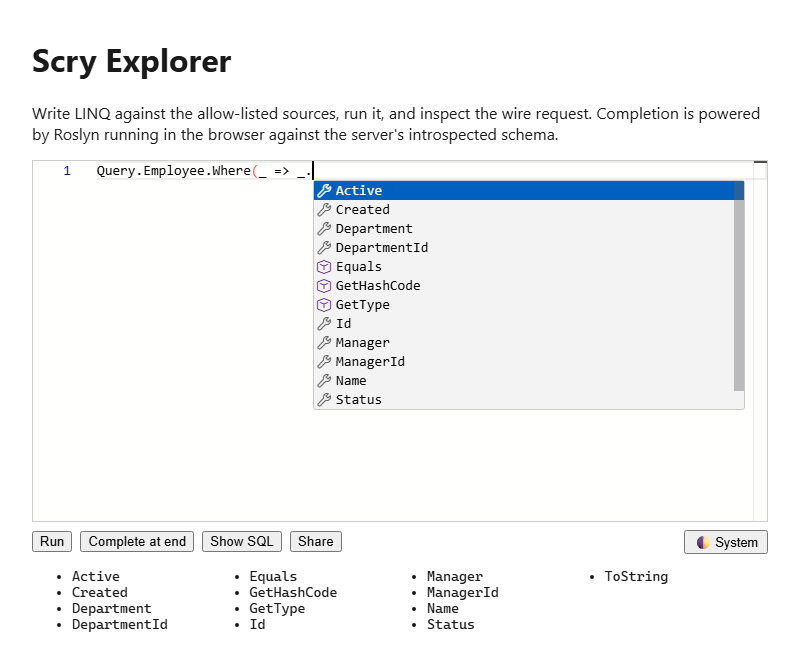
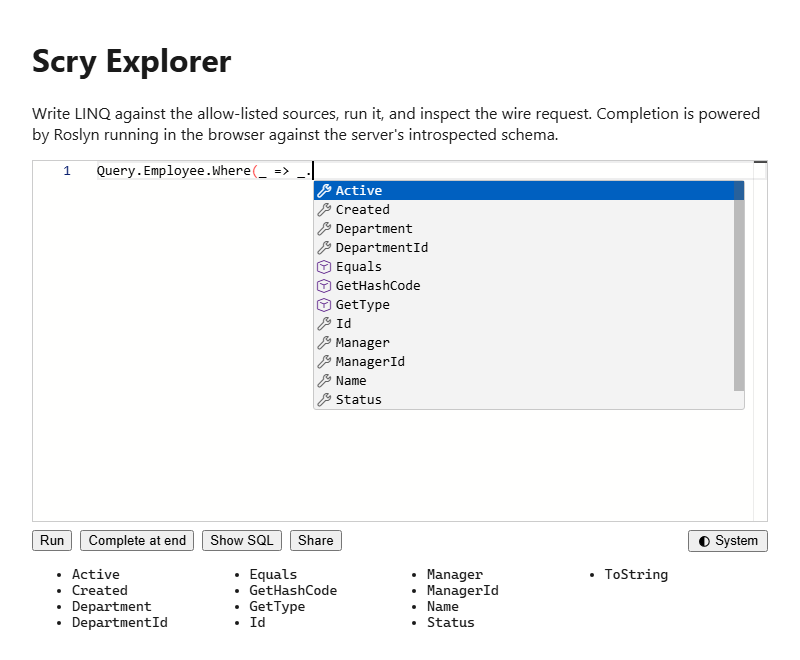
.

diff --git a/src/Scry.Explorer.Ui/wwwroot/css/app.css b/src/Scry.Explorer.Ui/wwwroot/css/app.css
@@ -49,6 +49,15 @@ a {
 
 .theme-toggle {
     margin-left: auto;
+    display: inline-flex;
+    align-items: center;
+    gap: 0.35em;
+}
+
+/* Sized in em so the icon tracks the button's font-size rather than a pixel box beside it. */
+.theme-icon {
+    width: 1em;
+    height: 1em;
 }
 
 /* A small, unobtrusive secondary button (copy, theme). Inherits color-scheme for light/dark. */

diff --git a/samples/Sample.Tests/UiScreenshotTests.cs b/samples/Sample.Tests/UiScreenshotTests.cs
@@ -6,10 +6,11 @@
 // file.
 //
 // Every page is opened at a fixed viewport: layout is what the screenshot is of, and a viewport that
-// followed the machine would make every capture a different one. Subpixel text antialiasing is off
-// (see BrowserFixture) because it did not reproduce between browser sessions even on one machine; what
-// remains is the platform's own font stack, so a first run on a new OS or CI image is still expected to
-// need reseeding.
+// followed the machine would make every capture a different one. Subpixel text antialiasing is off (see
+// BrowserFixture) because it did not reproduce between browser sessions even on one machine, and the
+// pngs are compared with a tolerance rather than by byte (see PngComparer) because what survives that
+// is a pixel or two at the end of a rule, rendered a shade lighter on one machine than on another. A
+// baseline seeded here therefore holds on CI, which is what lets these run there at all.
 [TestFixture]
 [Category("Browser")]
 public class UiScreenshotTests :

diff --git a/src/Scry.Explorer.Ui/App.razor.cs b/src/Scry.Explorer.Ui/App.razor.cs
@@ -420,7 +420,8 @@ public partial class App
         await TryRegister();
     }
 
-    string ThemeLabel => themeMode switch { "light" => "☀ Light", "dark" => "🌙 Dark", _ => "🌓 System" };
+    // Text only — the glyph beside it is the inline svg in App.razor.
+    string ThemeLabel => themeMode switch { "light" => "Light", "dark" => "Dark", _ => "System" };
 
     bool ResolveDark(IJSInProcessRuntime js) =>
         themeMode == "dark" || (themeMode != "light" && js.Invoke<bool>("scry.systemDark"));

diff --git a/samples/Sample.Tests/PagingPageTests.cs b/samples/Sample.Tests/PagingPageTests.cs
@@ -31,7 +31,7 @@ public class PagingPageTests
         Assert.That(page.FindAll("button")[1].HasAttribute("disabled"), Is.False, "Next enabled on page 1");
         Assert.That(page.FindAll("button")[0].HasAttribute("disabled"), Is.True, "Previous disabled on page 1");
 
-        page.FindAll("button")[1].Click();
+        await page.FindAll("button")[1].ClickAsync();
         await page.WaitForStateAsync(
             () => names().FirstOrDefault() == "Bob",
             TimeSpan.FromSeconds(10));

diff --git a/samples/Sample.Tests/KeysetPagingPageTests.cs b/samples/Sample.Tests/KeysetPagingPageTests.cs
@@ -29,7 +29,7 @@ public class KeysetPagingPageTests
         Assert.That(names(), Is.EqualTo(firstPage));
         Assert.That(page.FindAll("button")[0].HasAttribute("disabled"), Is.False, "Next enabled on page 1");
 
-        page.FindAll("button")[0].Click();
+        await page.FindAll("button")[0].ClickAsync();
         await page.WaitForStateAsync(
             () => names().FirstOrDefault() == "Bob",
             TimeSpan.FromSeconds(10));

diff --git a/samples/Sample.Tests/ModuleInitializer.cs b/samples/Sample.Tests/ModuleInitializer.cs
@@ -15,6 +15,7 @@ public static class ModuleInitializer
         // Downloads the Chromium build on first run so the UI tests work on a clean machine / CI.
         VerifyPlaywright.Initialize(installPlaywright: true);
         VerifyDiffPlex.Initialize(OutputType.Compact);
+        VerifierSettings.UseSsimForPng();
         VerifierSettings.AddScrubber("html", Scrub);
         VerifierSettings.InitializePlugins();
     }
